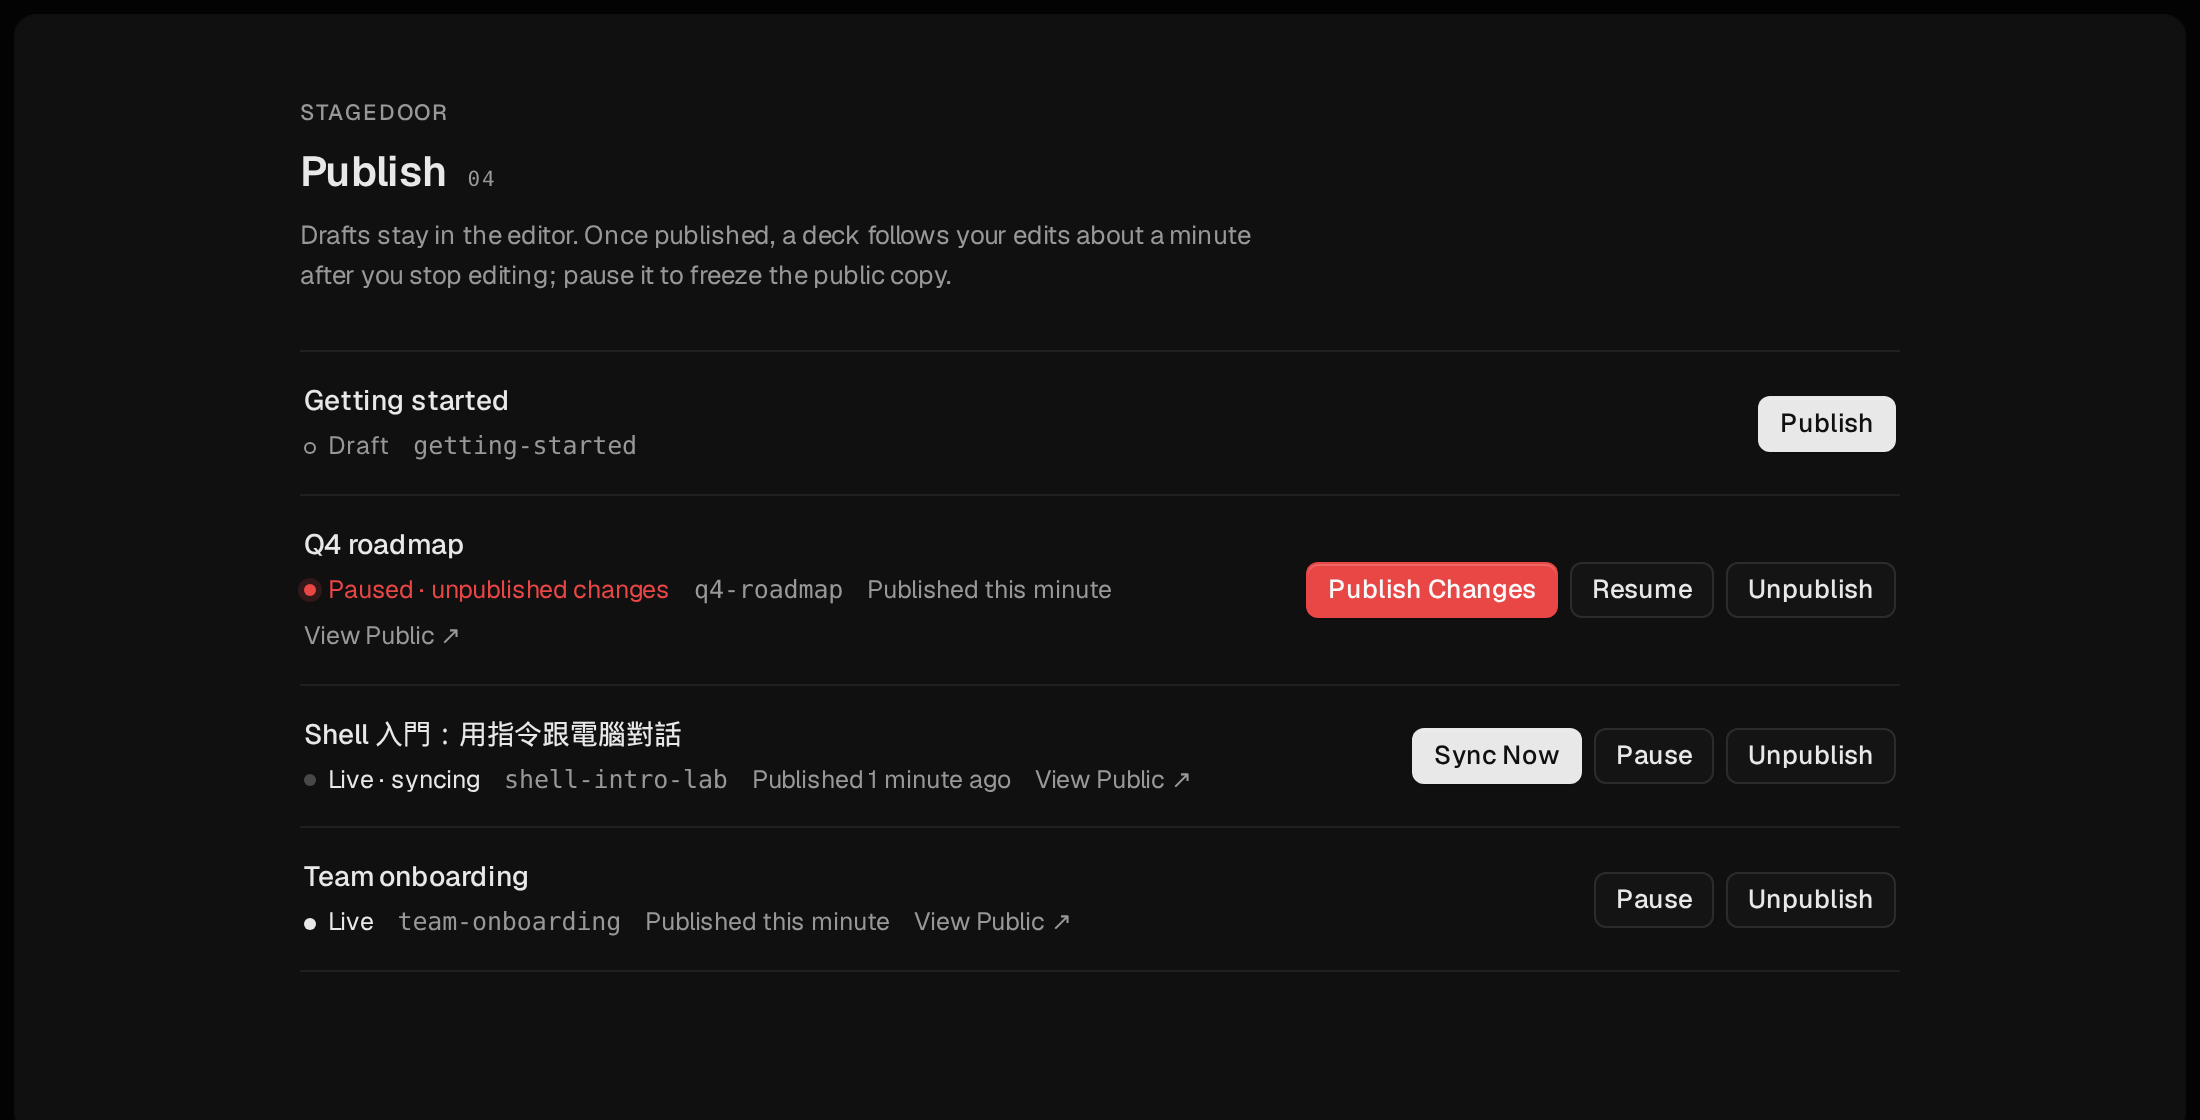
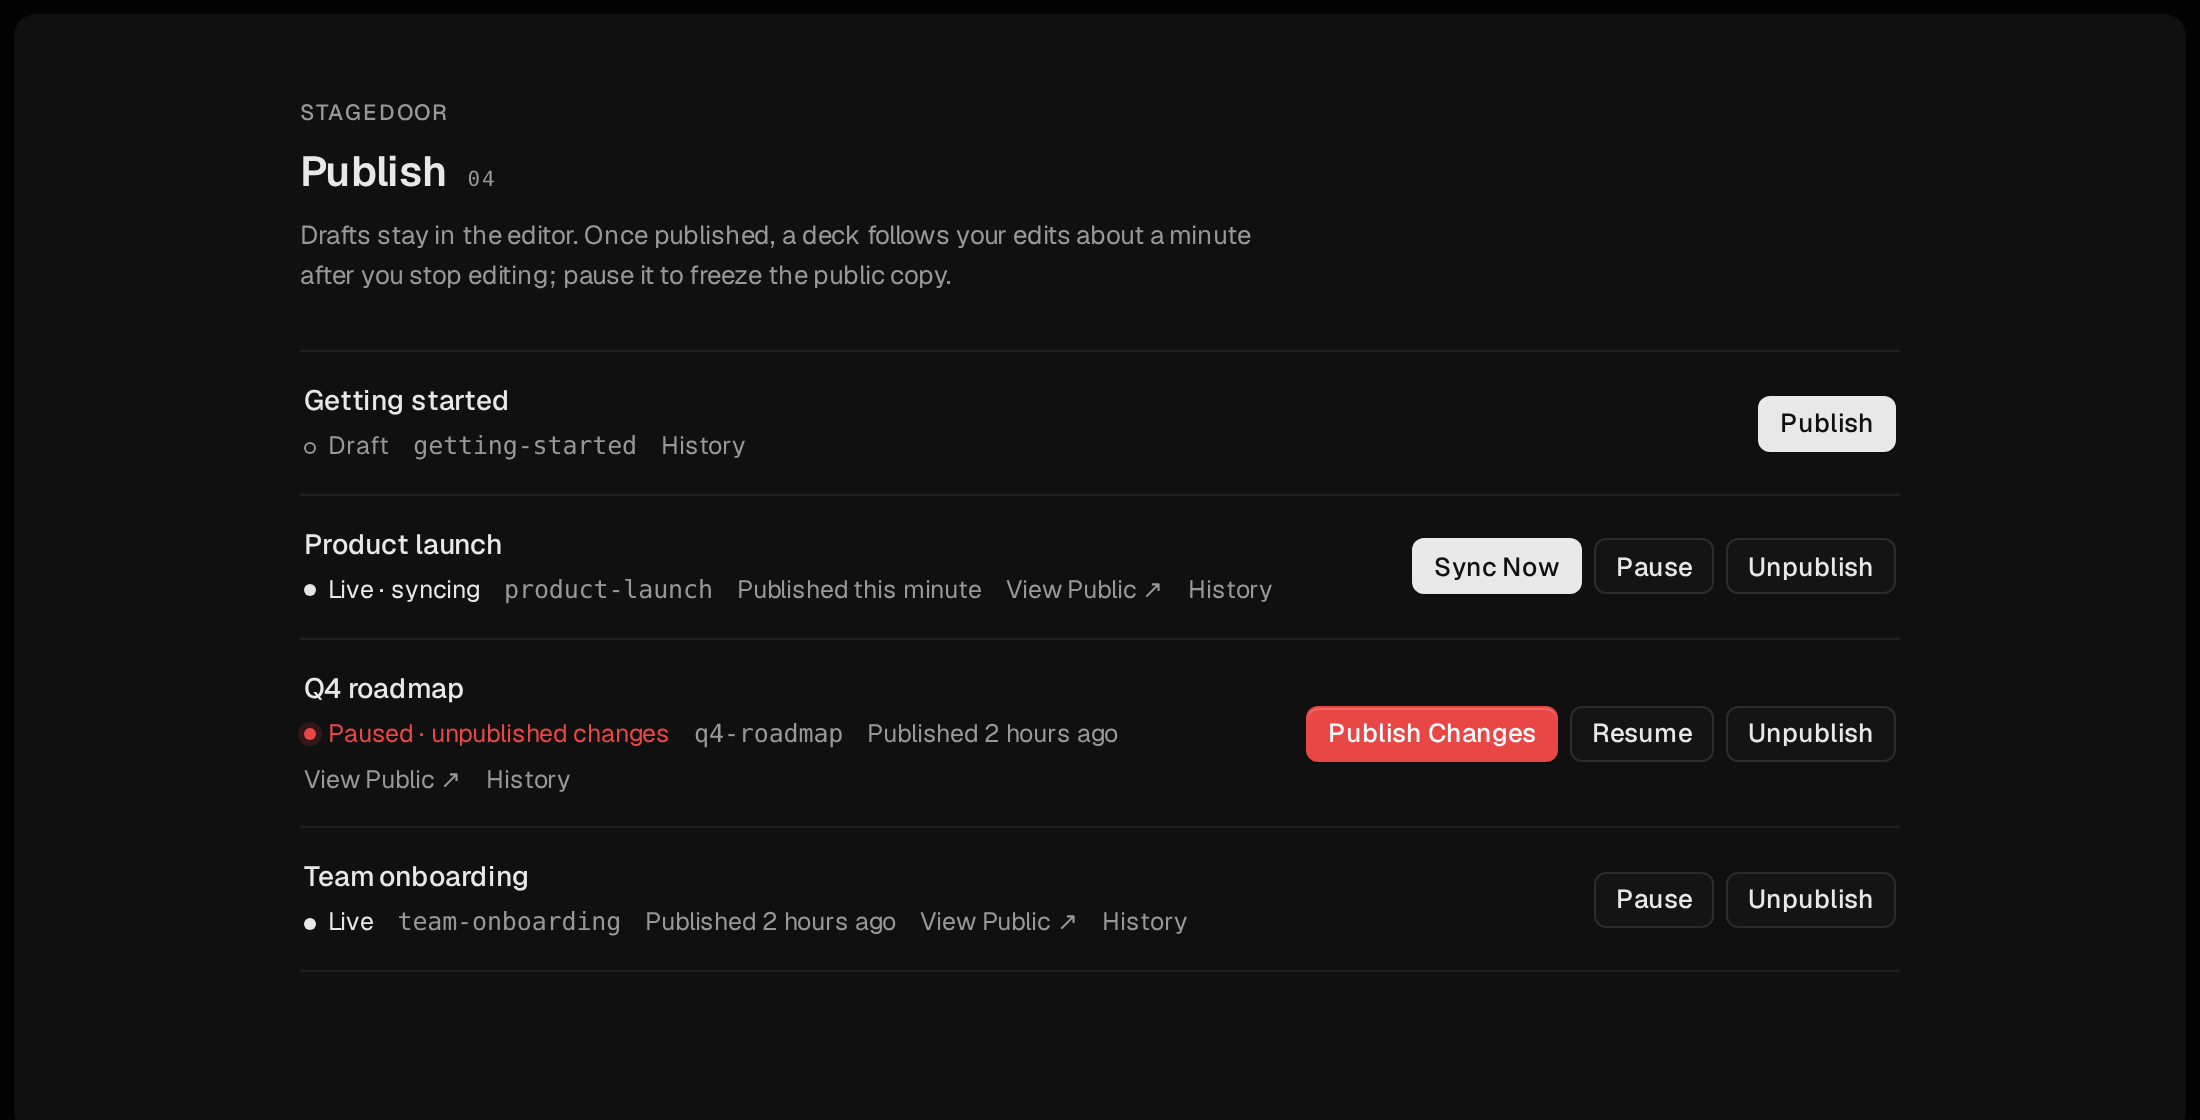
docs: describe history, autosave and scope

diff --git a/README.md b/README.md
@@ -1,11 +1,12 @@
 # Stagedoor
 
-Draft & publish for open-slide.
+Draft, publish & restore for open-slide.
 
 Run an [open-slide](https://github.com/open-slide/open-slide) editor on your
 own server, and choose **deck by deck** what appears on a public, read-only
 site. Drafts stay private; published decks follow your edits automatically,
-unless you pause them.
+unless you pause them. Every edit session is saved, so when an agent (or you)
+breaks a deck, you can put it back.
 
 <picture>
   <source media="(prefers-color-scheme: dark)" srcset="docs/screenshot-dark.png">
@@ -23,15 +24,20 @@ deploy. When the editor lives on a server instead, two things are missing:
 - **Drafts.** A build includes every deck in `slides/`, so half-finished
   decks go public with the next build.
 - **A publish step.** Rebuilding means logging in to the server.
+- **A way back.** Inspector undo is cleared on save
+  ([open-slide#568](https://github.com/open-slide/open-slide/issues/568)), and
+  the agent panel rewinds the conversation but not the files it changed. In a
+  browser there is no git to fall back on.
 
 Stagedoor works like Google Slides' *Publish to the web*: publishing decides
 *whether* a deck is public, and from then on the public copy keeps up with
 the editor. Like Netlify's *Stop auto publishing*, you can pause a deck to
-freeze what visitors see while you rework it.
+freeze what visitors see while you rework it. Like Google Slides' version
+history, any earlier version can be restored, and restoring can be undone.
 
-This repo adds a small publisher next to the editor. It does not patch
-open-slide; it only relies on the `open-slide build` CLI and the documented
-`slides/<id>/index.tsx` layout, so open-slide upgrades don't break it.
+It runs next to the editor and never patches open-slide: it relies only on
+the `open-slide build` CLI, the documented `slides/<id>/index.tsx` layout and
+git, so open-slide upgrades don't break it.
 
 ## What you get
 
@@ -41,7 +47,17 @@ open-slide; it only relies on the `open-slide build` CLI and the documented
 | The full open-slide UI, behind your login. | Just the slides. Arrow keys and `?p=3` work; the deck list and toolbar are hidden. |
 
 The publish page lives at `slides-edit.example.com/publish`, behind the same
-login.
+login. Each deck links to its **History**:
+
+<picture>
+  <source media="(prefers-color-scheme: dark)" srcset="docs/history-dark.png">
+  <img alt="History page: versions grouped by day, marked Current and Public, each with a Restore button" src="docs/history-light.png">
+</picture>
+
+<picture>
+  <source media="(prefers-color-scheme: dark)" srcset="docs/restore-dialog-dark.png">
+  <img alt="Restore confirmation explaining the current version is kept and the public site follows a minute later" src="docs/restore-dialog-light.png">
+</picture>
 
 ## How it works
 
@@ -49,6 +65,7 @@ login.
                    ┌──────────────────── container ─────────────────────┐
 slides-edit.…  ──► │ open-slide dev          127.0.0.1:5173  (editor)    │
   (behind Access)  │ publisher  /publish     127.0.0.1:8090              │
+                   │ slides-autosave   ~/deck/slides ──► git commits     │
                    │      │ snapshot + build                             │
                    │      ▼                                              │
 slides.…       ──► │ Caddy  ~/publish/current  127.0.0.1:8080  (public)  │
@@ -68,6 +85,13 @@ slides.…       ──► │ Caddy  ~/publish/current  127.0.0.1:8080  (public
 - **A failed build** rolls the snapshot back and leaves the public site as it
   was. A live deck that fails to build shows *Sync failed* and is retried
   after your next edit, not in a loop.
+- **Autosave** commits `slides/` to git about 30 seconds after edits stop
+  (at least every 5 minutes during long agent runs), whoever made them:
+  inspector, agent panel or a text editor. Every publish is committed too and
+  marked *Public*.
+- **Restore** writes an earlier version back into the editor and commits it.
+  What was there before is committed first, so *Undo* is one click. A live
+  deck then syncs as usual; a paused one stays frozen until you publish.
 
 | Status | Public? | Updates |
 | --- | --- | --- |
@@ -92,10 +116,11 @@ own: the editor's agent panel can run commands in it.
    EDIT_HOST=slides-edit.example.com PUBLIC_HOST=slides.example.com ./deploy/install.sh
    ```
 
-   It installs Node 22, Caddy and cloudflared, creates a `slide` user with an
-   open-slide workspace in `~/deck`, and starts three services, all listening
-   on `127.0.0.1` only. Re-running it updates the publisher and keeps your
-   workspace, config and published decks.
+   It installs Node 22, Caddy, cloudflared and inotify-tools, creates a
+   `slide` user with an open-slide workspace (a git repository) in `~/deck`,
+   and starts the editor, the publisher, autosave and Caddy, all on
+   `127.0.0.1` only. Re-running it updates Stagedoor and keeps your workspace,
+   config, history and published decks.
 
 2. **Create a Cloudflare Tunnel** (Zero Trust → Networks → Tunnels), then
    store its token in the container and start it:
@@ -123,6 +148,12 @@ The tunnel only makes outbound connections, so this works behind NAT and
 campus or office firewalls. The cloudflared unit uses HTTP/2 over IPv4,
 which connects right away on networks that block QUIC (UDP 7844).
 
+### Reference deployment
+
+The installer, Caddyfile and tunnel steps are one tested way to run
+Stagedoor, not a requirement. The publisher only needs a workspace, a data
+directory and something in front that authenticates `/publish`.
+
 ### Proxmox notes
 
 `deploy/pve/` has the host-side files from the reference setup: a private NAT
@@ -136,6 +167,7 @@ resolvers with `pct set <vmid> --nameserver "<ip> <ip>"`.
 | --- | --- |
 | Edit | `https://slides-edit.example.com` |
 | Publish | `https://slides-edit.example.com/publish` |
+| History | `https://slides-edit.example.com/publish/history/<deck-id>` |
 | Share | `https://slides.example.com/<deck-id>` — redirects to `/s/<deck-id>`; add `?p=3` to open page 3 |
 
 The same actions from a shell in the container:
@@ -146,7 +178,8 @@ runuser -u slide -- bash -c 'set -a; . /etc/stagedoor/publisher.env
 ```
 
 Commands: `status`, `publish <id>...`, `unpublish <id>...`, `pause <id>...`,
-`resume <id>...`, `sync` (push pending edits of live decks now) and `rebuild`.
+`resume <id>...`, `sync` (push pending edits of live decks now), `history <id>`,
+`restore <id> <rev>` and `rebuild`.
 
 ## Configuration
 
@@ -166,6 +199,21 @@ The public build hides open-slide's deck browser and toolbar through the
 `build` options in `open-slide.config.ts`; the installer sets them for new
 workspaces.
 
+Autosave reads `QUIET` (default `30`) and `MAX_WAIT` (default `300`) seconds
+from its systemd unit.
+
+## Scope
+
+Stagedoor controls **what is public** and **gets you back** from a bad edit.
+
+| In scope | Not in scope |
+| --- | --- |
+| Drafts, publish, unpublish, live sync, pause | Editing slides: that's open-slide |
+| Atomic, rolled-back builds; short public links | Undo inside the editor ([open-slide#568](https://github.com/open-slide/open-slide/issues/568)) |
+| Versions saved after each edit session and publish | Previews of old versions: restore, check in the editor, undo if wrong |
+| Restore and undo, from the browser or the CLI | Accounts and permissions: use Cloudflare Access or similar |
+| | Patching or forking open-slide |
+
 ## Limitations
 
 - `themes/` and `assets/` are shared by every deck and are copied on each
@@ -175,6 +223,10 @@ workspaces.
   `slides/` from outside the editor, restart it with
   `systemctl restart openslide-dev`.
 - One build runs at a time; a publish takes a few seconds.
+- History covers `slides/<id>`. Shared `themes/` and `assets/` are not
+  versioned per deck.
+- Edits made in the last ~30 seconds aren't in history yet; the History page
+  says so when that's the case.
 
 ## Upgrading open-slide
 
